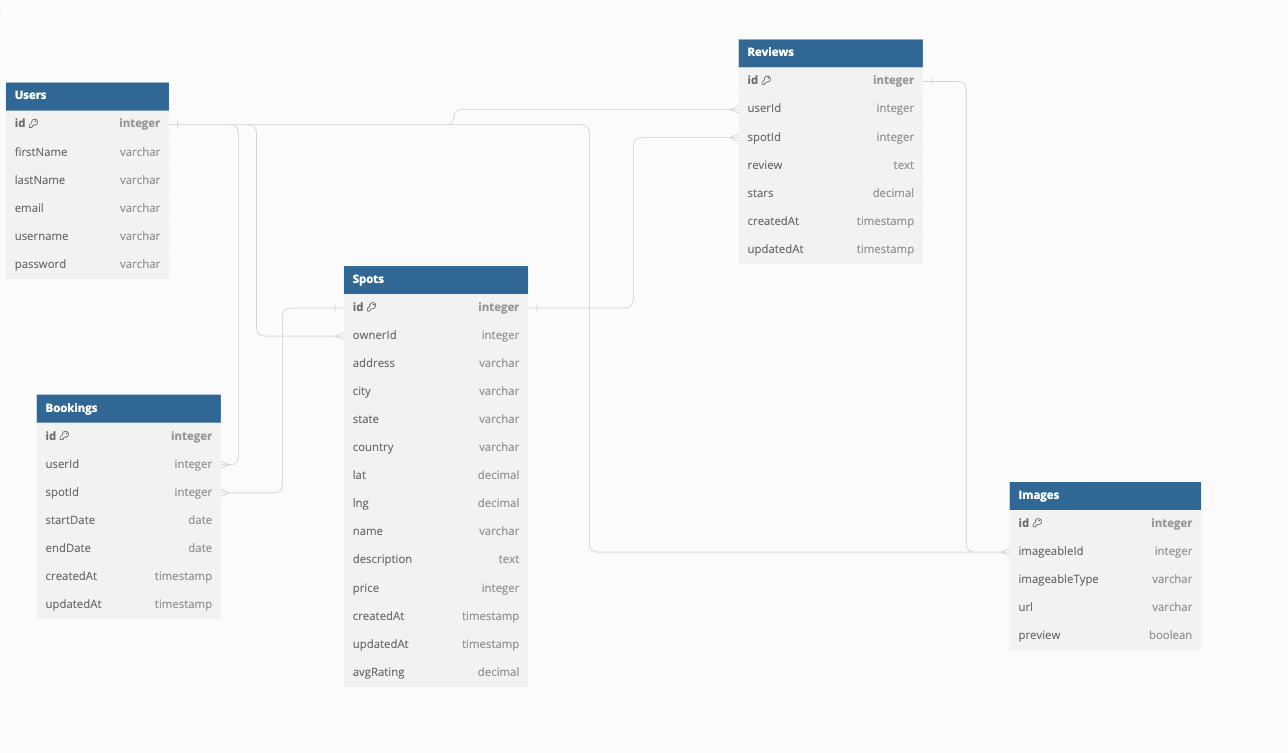
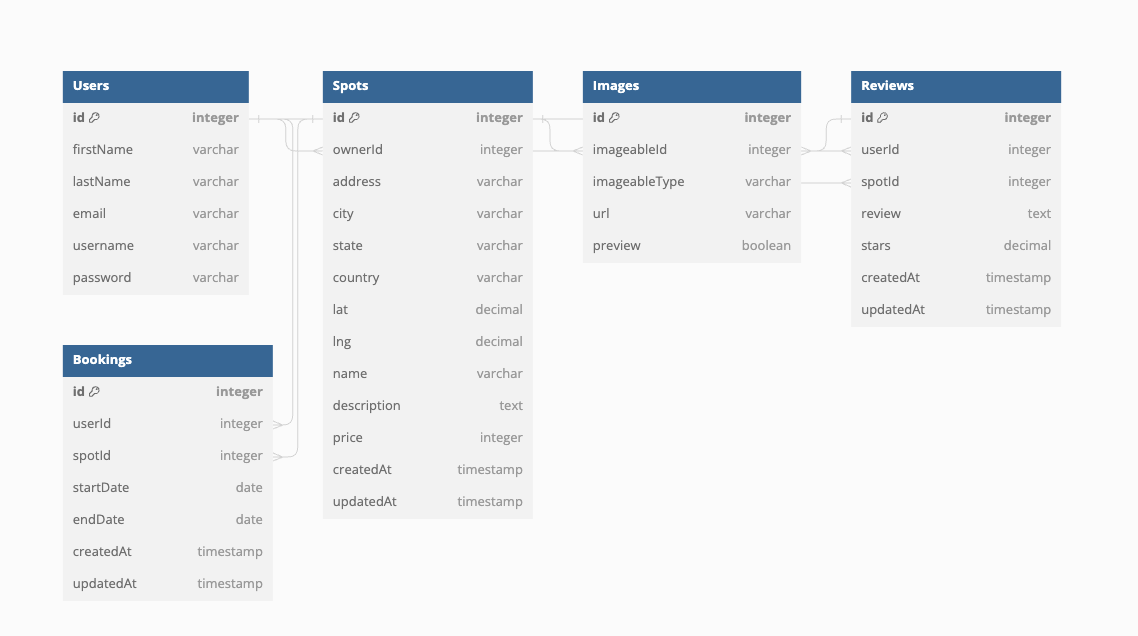
schema updated

diff --git a/backend/schema_dbdiaagram_io.md b/backend/schema_dbdiaagram_io.md
@@ -25,7 +25,6 @@ Table Spots {
   price integer
   createdAt timestamp
   updatedAt timestamp
-  avgRating decimal
 }
 
 Table Images {
